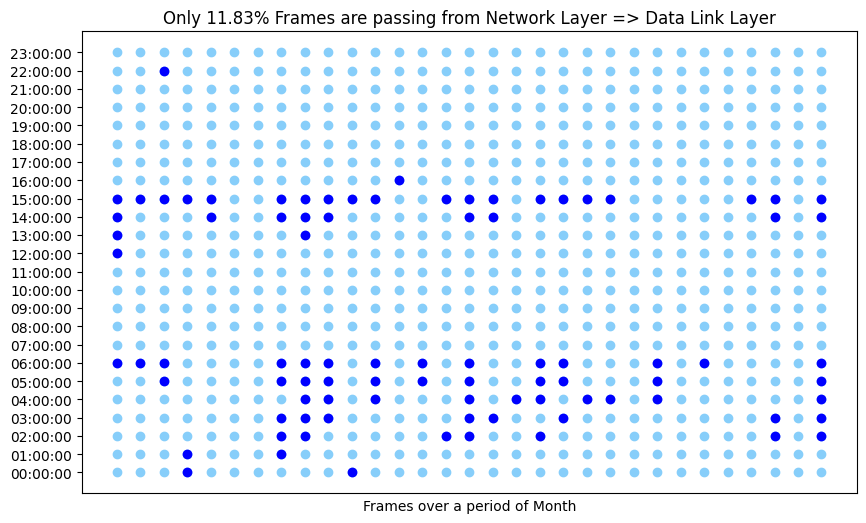
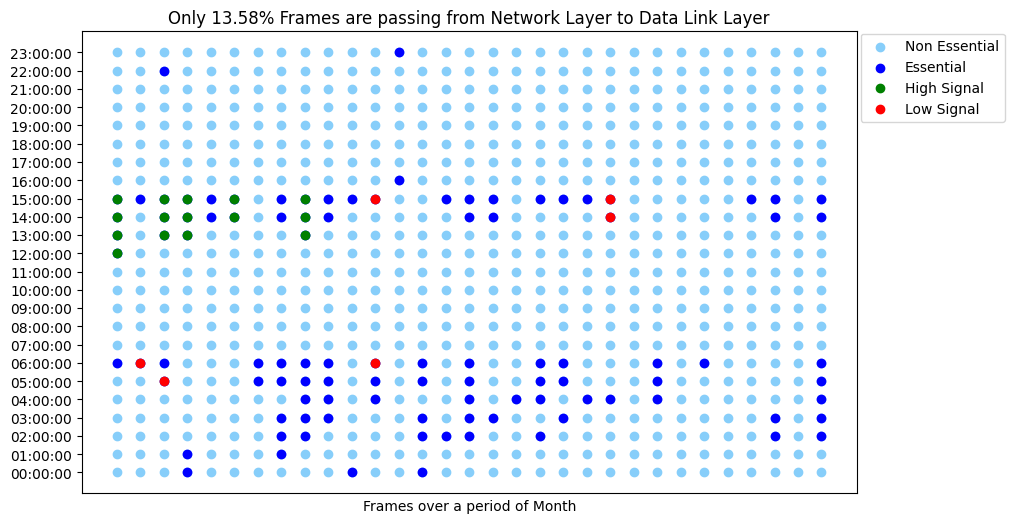
fix: refactoring

Changed region(s): [[0.0, 0.0, 0.9977, 0.9484], [0.343, 0.9484, 0.6859, 0.979]]

diff --git a/src/power_aware_iot.py b/src/power_aware_iot.py
@@ -185,39 +185,33 @@ class Algorithm:
    def isEssential(self, frame: Frame) -> FrameFlag | None:
       temp = frame.dta.temperature
       humi = frame.dta.humidity
-      flag: FrameFlag | None = None
       # Checking for essentials Frame
-      if   temp >= self.ht and humi >= self.hh:
-         flag = FrameFlag.HTHH # Low
-      elif temp <= self.lt and humi <= self.lh:
-         flag = FrameFlag.LTLH # High
-      elif temp >= self.ht and humi <= self.lh:
-         flag = FrameFlag.HTLH # High
-      elif temp <= self.lt and humi >= self.hh:
-         flag = FrameFlag.LTHH # Off
-      elif temp >= self.ht and abs(humi - self.mh) <= 1.5:
-         flag = FrameFlag.HTMH # Low
-      elif temp <= self.lt and abs(humi - self.mh) <= 1.5:
-         flag = FrameFlag.LTMH # Low
-      elif abs(temp - self.mt) <= 1.5 and humi <= self.lh:
-         flag = FrameFlag.MTLH # High
-      elif abs(temp - self.mt) <= 1.5 and humi >= self.hh:
-         flag = FrameFlag.MTHH # off
-      elif abs(temp - self.mt) <= 1.5 and abs(humi - self.mh) <= 1.5:
-         flag = FrameFlag.MTMH # off
+      flag: FrameFlag | None
+      flag = FrameFlag.HTHH if temp >= self.ht and humi >= self.hh else \
+             FrameFlag.LTLH if temp <= self.lt and humi <= self.lh else \
+             FrameFlag.HTLH if temp >= self.ht and humi <= self.lh else \
+             FrameFlag.LTHH if temp <= self.lt and humi >= self.hh else \
+             FrameFlag.HTMH if temp >= self.ht and abs(humi - self.mh) <= 1.5 else \
+             FrameFlag.LTMH if temp <= self.lt and abs(humi - self.mh) <= 1.5 else \
+             FrameFlag.MTLH if abs(temp - self.mt) <= 1.5 and humi <= self.lh else \
+             FrameFlag.MTHH if abs(temp - self.mt) <= 1.5 and humi >= self.hh else \
+             FrameFlag.MTMH if abs(temp - self.mt) <= 1.5 and abs(humi - self.mh) <= 1.5 else \
+             None      
       self.update(temp, humi)
       return flag
 
    # Decision support system
    def toggle(self, frame: Frame[SensorData], flag: FrameFlag) -> Frame[SignalData] | None:
+      signal_type: Signal  
       match flag:
-         case FrameFlag.HTHH: return Frame[SignalData](SignalData(frame.dta.timestamp, Signal.Low),  frame.sno, destination="025C8H")
-         case FrameFlag.LTLH: return Frame[SignalData](SignalData(frame.dta.timestamp, Signal.High), frame.sno, destination="025C8H")
-         case FrameFlag.HTLH: return Frame[SignalData](SignalData(frame.dta.timestamp, Signal.High), frame.sno, destination="025C8H")
-         case FrameFlag.HTMH: return Frame[SignalData](SignalData(frame.dta.timestamp, Signal.Low), frame.sno, destination="025C8H") 
-         case FrameFlag.LTMH: return Frame[SignalData](SignalData(frame.dta.timestamp, Signal.Low), frame.sno, destination="025C8H") 
-         case FrameFlag.MTLH: return Frame[SignalData](SignalData(frame.dta.timestamp, Signal.High), frame.sno, destination="025C8H") 
+         case FrameFlag.HTHH: signal_type = Signal.Low
+         case FrameFlag.LTLH: signal_type = Signal.High
+         case FrameFlag.HTLH: signal_type = Signal.High
+         case FrameFlag.HTMH: signal_type = Signal.Low 
+         case FrameFlag.LTMH: signal_type = Signal.Low 
+         case FrameFlag.MTLH: signal_type = Signal.High 
          case              _: return None
+      return Frame[SignalData](SignalData(frame.dta.timestamp, signal_type), frame.sno, destination="025C8H")
 
    @staticmethod
    def train(frames: SensorFrames):
@@ -232,24 +226,31 @@ class Algorithm:
 def scatter_plot(frames: SensorFrames, essen_frames: EssentialsFrames, signal_frames: SignalFrames) -> None:
    essen_dates  = [date_to_str(frame.dta.timestamp, Format.Date) for frame in essen_frames] 
    essen_times  = [date_to_str(frame.dta.timestamp, Format.Time) for frame in essen_frames]
-   signal_dates = [date_to_str(frame.dta.timestamp, Format.Date) for frame in signal_frames]
-   signal_times = [date_to_str(frame.dta.timestamp, Format.Time) for frame in signal_frames]
    sensor_dates = [date_to_str(frame.dta.timestamp, Format.Date) for frame in frames] 
    sensor_times = [date_to_str(frame.dta.timestamp, Format.Time) for frame in frames]
+   high_dates   = []
+   high_times   = []
+   low_dates    = []
+   low_times    = []
+   for i in range(len(signal_frames)):
+      if signal_frames[i].dta.type == Signal.High:
+         high_dates.append(date_to_str(signal_frames[i].dta.timestamp, Format.Date))
+         high_times.append(date_to_str(signal_frames[i].dta.timestamp, Format.Time))         
+      else:
+         low_dates.append(date_to_str(signal_frames[i].dta.timestamp, Format.Date))
+         low_times.append(date_to_str(signal_frames[i].dta.timestamp, Format.Time))
    # Calculating percentage of essesntial frames
    percentage = len(essen_times) * 100 / len(sensor_times)
    # Plotting on a Scatter Plot graph
    plt.figure(figsize=(10, 6))
-   plt.scatter(sensor_dates,   sensor_times, color=mcolor.CSS4_COLORS["lightskyblue"])
-   plt.scatter(essen_dates,    essen_times,  color=mcolor.CSS4_COLORS["blue"])
-   for i in range(len(signal_frames)):
-      if signal_frames[i].dta.type == Signal.High:
-         plt.scatter(signal_dates[i], signal_times[i], color=mcolor.CSS4_COLORS["green"])
-      else:
-         plt.scatter(signal_dates[i], signal_times[i], color=mcolor.CSS4_COLORS["red"])
+   plt.scatter(sensor_dates,   sensor_times, color=mcolor.CSS4_COLORS["lightskyblue"], label="Non Essential")
+   plt.scatter(essen_dates,    essen_times,  color=mcolor.CSS4_COLORS["blue"],         label="Essential")
+   plt.scatter(high_dates,     high_times,   color=mcolor.CSS4_COLORS["green"],        label="High Signal")
+   plt.scatter(low_dates,      low_times,    color=mcolor.CSS4_COLORS["red"],          label="Low Signal")
    plt.xlabel('Frames over a period of Month')
    plt.title("Only %.2f%% Frames are passing from Network Layer to Data Link Layer" % percentage)
    plt.tick_params(axis='x', which='both', bottom=False, labelbottom=False)
+   plt.legend(bbox_to_anchor=(1.20,0.90), loc="right")
    plt.show()
 
 # Generate a binary file containing frames from a csv file 
@@ -289,9 +290,9 @@ def simulate_network_layer(sensor: SensorFrames, algo: Algorithm) -> tuple[Essen
       signals.append(signal)
    return essentials, signals
 
-def print_frames(frames: list[Frame[T]], msg: str) -> None:
+def print_frames(frames: list[Frame[T]], msg: str | None = None) -> None:
    for i, frame in enumerate(frames):
-      print("%s: %d" % (msg, i + 1))
+      if msg: print("%s: %d" % (msg, i + 1))
       print(frame)
 
 def main():
@@ -304,8 +305,8 @@ def main():
    essentials, signals = simulate_network_layer(frames, algo)
    print("Essential Frame Count: %d" % len(essentials))
    print("   Signal Frame Count: %d" % len(signals))
-   # print_frames(essentials, "Essential Frame")
-   # print_frames(signals, "Signal Frame")
+   print_frames(essentials, "Essential Frame")
+   print_frames(signals,    "Signal Frame")
 
 if __name__ == "__main__":
    main()
